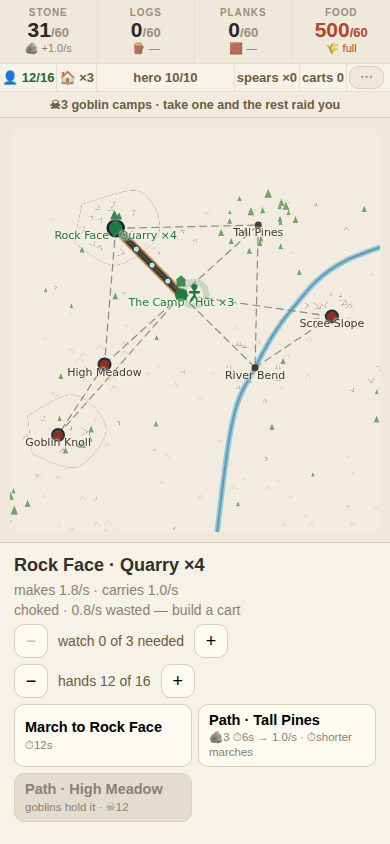
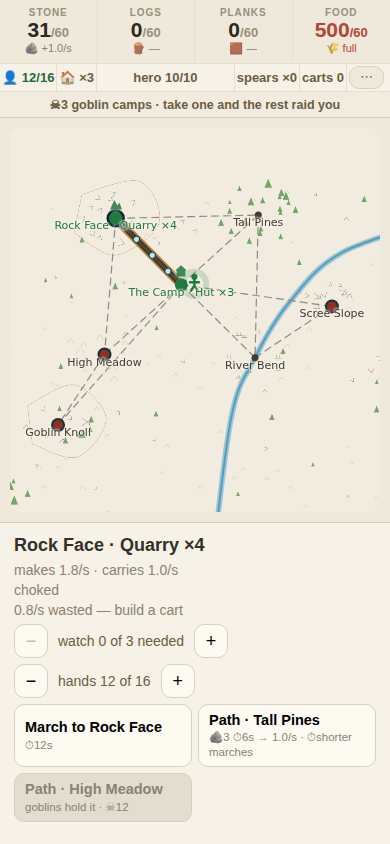
F9: the holding panel says one thing per line
"The description of Goblin Knoll is absolutely crazy. Goblins hold it,
forty eight strong, points, forty five second, etcetera. Completely not
understood."

One line was carrying five separate facts -- who holds the ground, how
strong they are, what the ground is worth, how full its raid clock is,
and whether anything of yours would stop it -- joined by middots into a
run that read as noise. The panel now gives each fact its own row.

The single status string is still built, because the away-line and the
browser probe both read it; the split happens where the eye is. Bare
numbers merge back up so a row is never just a figure with no word
attached, but "every 300s" and "takes 1 building" do NOT merge -- folding
those in was the first attempt and it rebuilt the same unreadable run one
row further down.

897 unit tests, npm run play green, panel eyeballed at 2x on the exact
holding they were complaining about.

Claude-Session: https://claude.ai/code/session_01QmyFfz98V4SRquKDwCYRQg

diff --git a/src/ui/Camp.svelte b/src/ui/Camp.svelte
@@ -632,9 +632,23 @@
       const clock = m > 0 && at !== null
         ? ` · ${MARK.waste}${Math.round(m * 100)}% → ${SITE.get(at)?.name ?? ''}`
           + ` every ${RAID_SECS}s · takes 1 building`
-          + ` · ${onWatch(game) ? `${MARK.hero} home turns one away`
-            : `${MARK.hero} away — nothing turns it away`}`
+          // ★ WHAT WOULD ACTUALLY STOP IT (2026-08-11). This still said "home
+          // turns one away", which stopped being true when the watch became
+          // positional and stopped being the whole story when hands could be
+          // posted. It names the gate, and who is standing on it.
+          + ` · ${at !== null && guardsAt(game, at) >= GUARD_STOP
+            ? `${MARK.people} ${guardsAt(game, at)} hold ${SITE.get(at)?.name ?? 'it'}`
+            : at !== null && onWatchAt(game, at)
+              ? `${MARK.hero} the hero holds it`
+              : `nothing is holding ${SITE.get(at ?? -1)?.name ?? 'it'}`}`
         : '';
+      // ★★★ F9, 2026-08-11 — the owner, tapping the deepest holding: *"the
+      // description of Goblin Knoll is absolutely crazy. Goblins hold it,
+      // forty eight strong, points, forty five second, etcetera. Completely
+      // not understood."* One line was carrying five separate facts: who
+      // holds it, how strong, what it is worth, how full its raid clock is,
+      // and whether anything of yours would stop it. Split, one fact a line,
+      // in `statusLines` below — the panel gives each its own row.
       return `goblins hold it · ${MARK.danger}${Math.ceil(game.goblins[picked] ?? 0)} strong`
         + prizeOf(picked) + clock;
     }
@@ -656,6 +670,27 @@
     }
     return '';
   })());
+
+  /** ★★ THE PANEL'S ROWS. One fact a row — see F9 above. The single `status`
+   *  string is still built (the away-line and the probe both read it), and
+   *  this is where it is broken up for the eye. */
+  const statusLines = $derived(status.split(' · ').reduce<string[]>((rows, part) => {
+    const p = part.trim();
+    if (!p) return rows;
+    // Keep a fact and its number together: a row that is only a number is
+    // the same unreadable run in smaller pieces.
+    const last = rows[rows.length - 1];
+    // ⚠ ONLY BARE NUMBERS MERGE UP. "every 300s" and "takes 1 building" were
+    // folded in at first and rebuilt the same unreadable run one row down.
+    if (last !== undefined && /^\d+(\.\d+)?$/.test(p.split(' ')[0] ?? '')
+      && !/^(every|takes)\b/.test(p)) {
+      rows[rows.length - 1] = `${last} · ${p}`;
+      return rows;
+    }
+    rows.push(p);
+    return rows;
+  }, []));
+
 
   /** Set hands ±1 and SAY where the person came from — the owner: the
    *  pull used to happen silently and it read as a bug. */
@@ -1009,7 +1044,7 @@
              lived in the label and made it long enough to lose its collision
              fight and be dropped altogether. -->
         {#if worksLine(picked)}<p class="note">{worksLine(picked)}</p>{/if}
-        {#if status}<p class="note">{status}</p>{/if}
+        {#each statusLines as row}<p class="note">{row}</p>{/each}
         {#if picked !== 0 && (game.stacks[picked] ?? 0) > 0 && !game.goblins[picked]}
           <!-- ★ POSTED HANDS — the owner's ask. Pins win the pool; freeing
                them returns everyone to farms-first auto. -->
